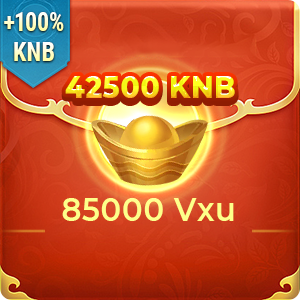
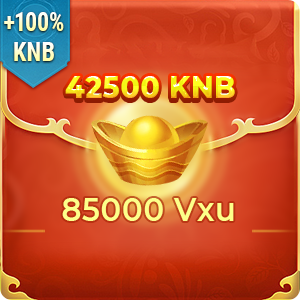
update goi nap

Changed region(s): [[0.0, 0.18, 1.0, 0.9]]

diff --git a/chongoinap.html b/chongoinap.html
@@ -262,7 +262,7 @@ Gói dành cho all server</td>
 											<div class="anhgoicustom">
 												<span class="abs countdowntime">Còn: 999 ngày</span>
 												<span class="abs textmota">Nạp lần đầu nhận 85 KNB khóa</span>
-												<img src="images/goinap/goi3.png" class="img-icongames" alt=""/>
+												<img src="images/goinap/goi13.png" class="img-icongames" alt=""/>
 											</div>
 											<span class="titlegame">Gói 50k Gói 50k Gói 50k</span>
 										</a>
@@ -271,7 +271,7 @@ Gói dành cho all server</td>
 								<div class="col-sm-3   col-6">
 									<div class="card">
 										<a href="#" type="button" data-bs-toggle="offcanvas" data-bs-target="#offcanvasBottom" aria-controls="offcanvasBottom">
-											<img src="images/goitien.jpg" class="img-icongames" alt=""/>
+											<img src="images/goinap/goi10-ko.png" class="img-icongames" alt=""/>
 											<span class="titlegame">Gói 50k</span>
 										</a>
 									</div>
